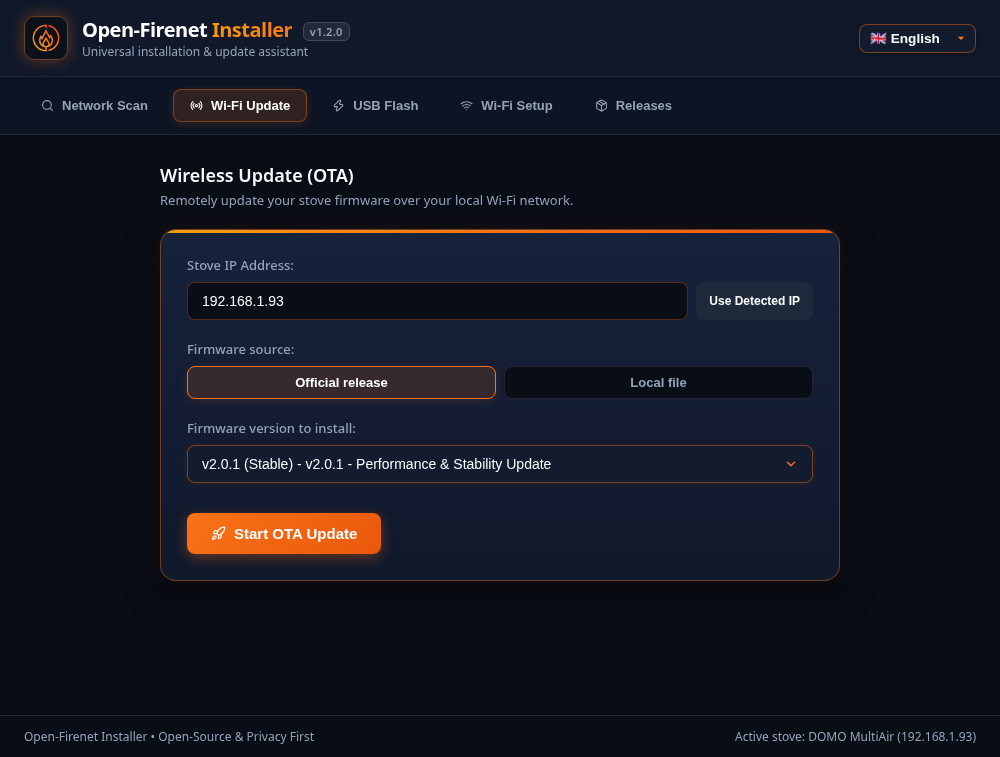
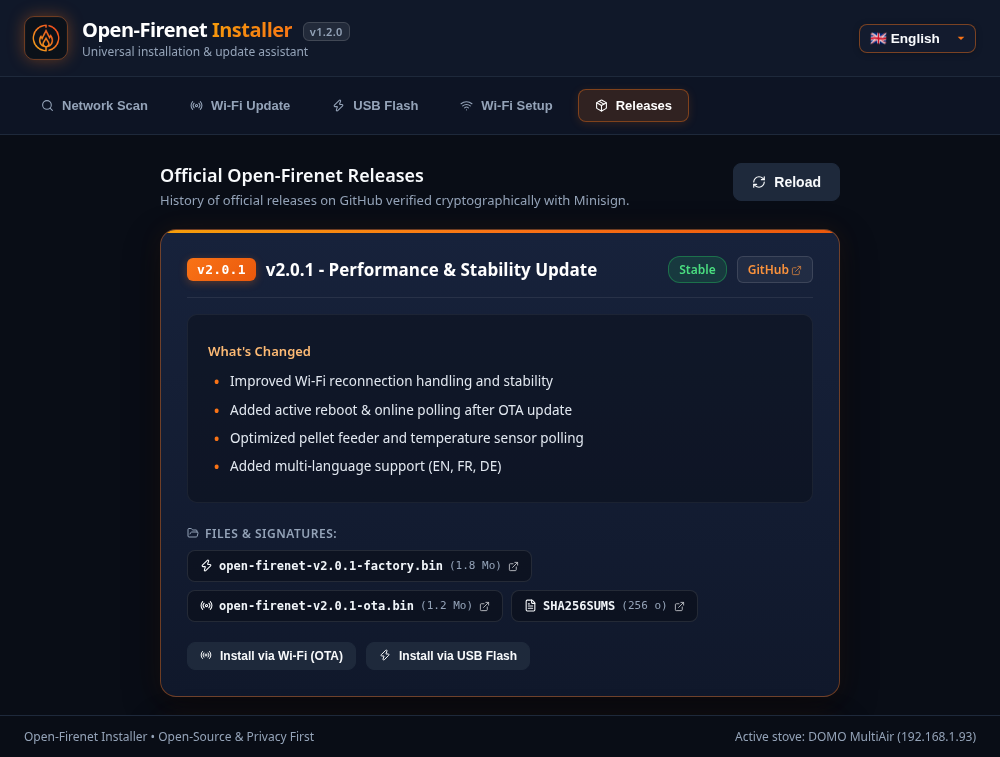
fix(scripts): wrap prepare steps in IIFE to avoid global const collision breaking screenshots

diff --git a/scripts/generate_screenshots.js b/scripts/generate_screenshots.js
@@ -349,7 +349,18 @@ async function main() {
 
     for (const item of captures) {
       if (item.prepare) {
-        await sendCdp('Runtime.evaluate', { expression: item.prepare });
+        // Wrapped in an IIFE: Runtime.evaluate runs against the page's real
+        // global scope, and separate evaluate calls share that scope -- a
+        // bare `const tab = ...` in each prepare script collides with the
+        // previous capture's `const tab`, throwing a silent SyntaxError that
+        // skips the whole script (tab never switches, next screenshot is a
+        // byte-for-byte duplicate of the previous one).
+        const result = await sendCdp('Runtime.evaluate', {
+          expression: `(() => {\n${item.prepare}\n})()`,
+        });
+        if (result && result.exceptionDetails) {
+          console.error(`  ⚠ prepare script failed for ${item.name}:`, result.exceptionDetails.text);
+        }
         await new Promise((r) => setTimeout(r, 500));
       }
 
